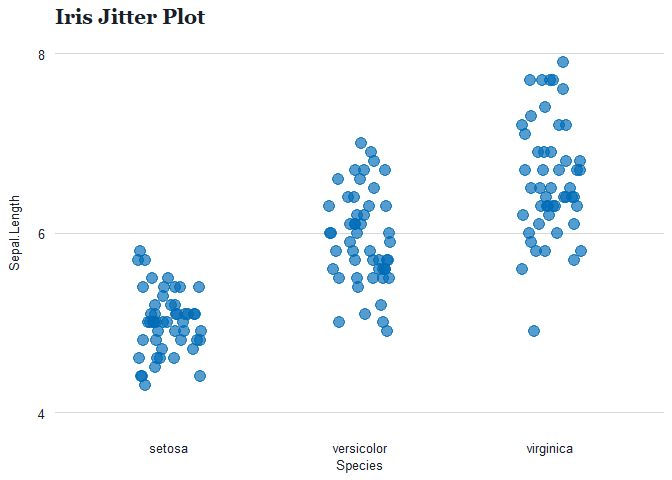
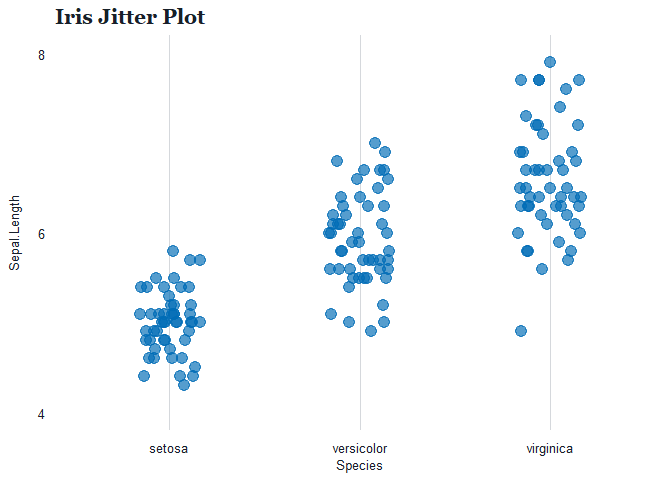
updating readme

diff --git a/README.md b/README.md
@@ -22,16 +22,17 @@ devtools::install_github("San-Mateo-County-Health-Epidemiology/smcepi")
 ## Using `theme_gg_smc()`
 
 `theme_gg_smc()` will format your `ggplot2` charts according to OEE
-style guidelines. In order to use the county’s fonts, you’ll need to run
-`load_smc_fonts()` once per session so that the fonts are available for
-use in the `theme_gg_smc()` function.
+style guidelines. Embedded within the `theme_gg_smc()` is the
+`load_smc_fonts()` function that will download and/or enable the fonts
+from the
+[extrafont](https://cran.r-project.org/web/packages/extrafont/extrafont.pdf)
+package. If you haven’t already installed the extrafont fonts on your
+computer, the `theme_gg_smc()` and `load_smc_fonts()` functions will
+download them the first time you run either of those functions.
 
 ``` r
 library(smcepi)
 #> Loading required package: ggplot2
-
-load_smc_fonts()
-#> [1] "You already have Arial and Georgia. You're good to go!"
 
 iris %>% 
   ggplot(aes(x = Species, 
@@ -47,7 +48,7 @@ iris %>%
     breaks = seq(4, 8, 2)
   ) + 
   labs(title = "Iris Jitter Plot") + 
-  theme_gg_smc()
+  theme_gg_smc(plot_lines = "vertical")
 ```
 
 <img src="man/figures/README-example-1.png" width="60%" style="display: block; margin: auto;" />
